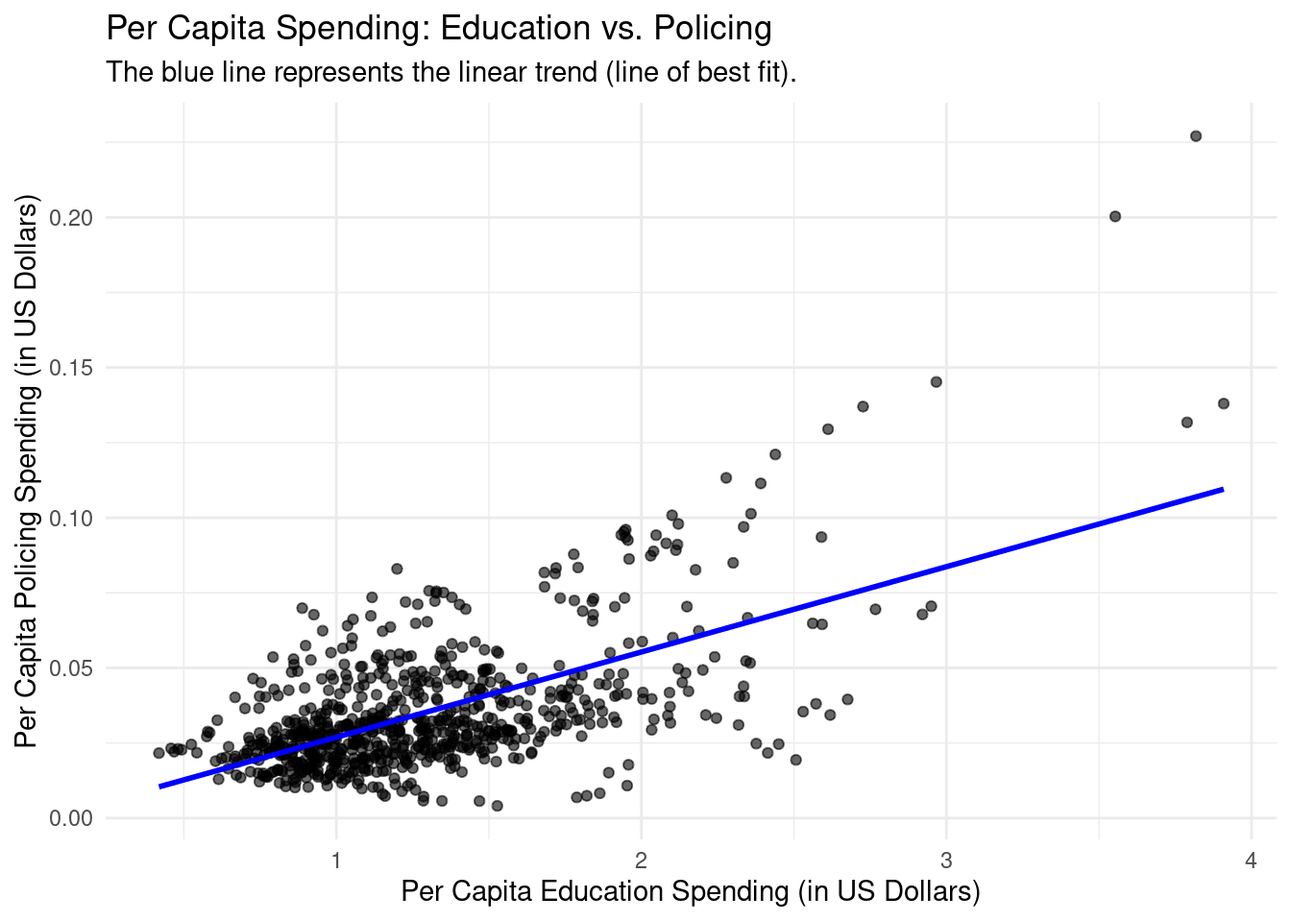
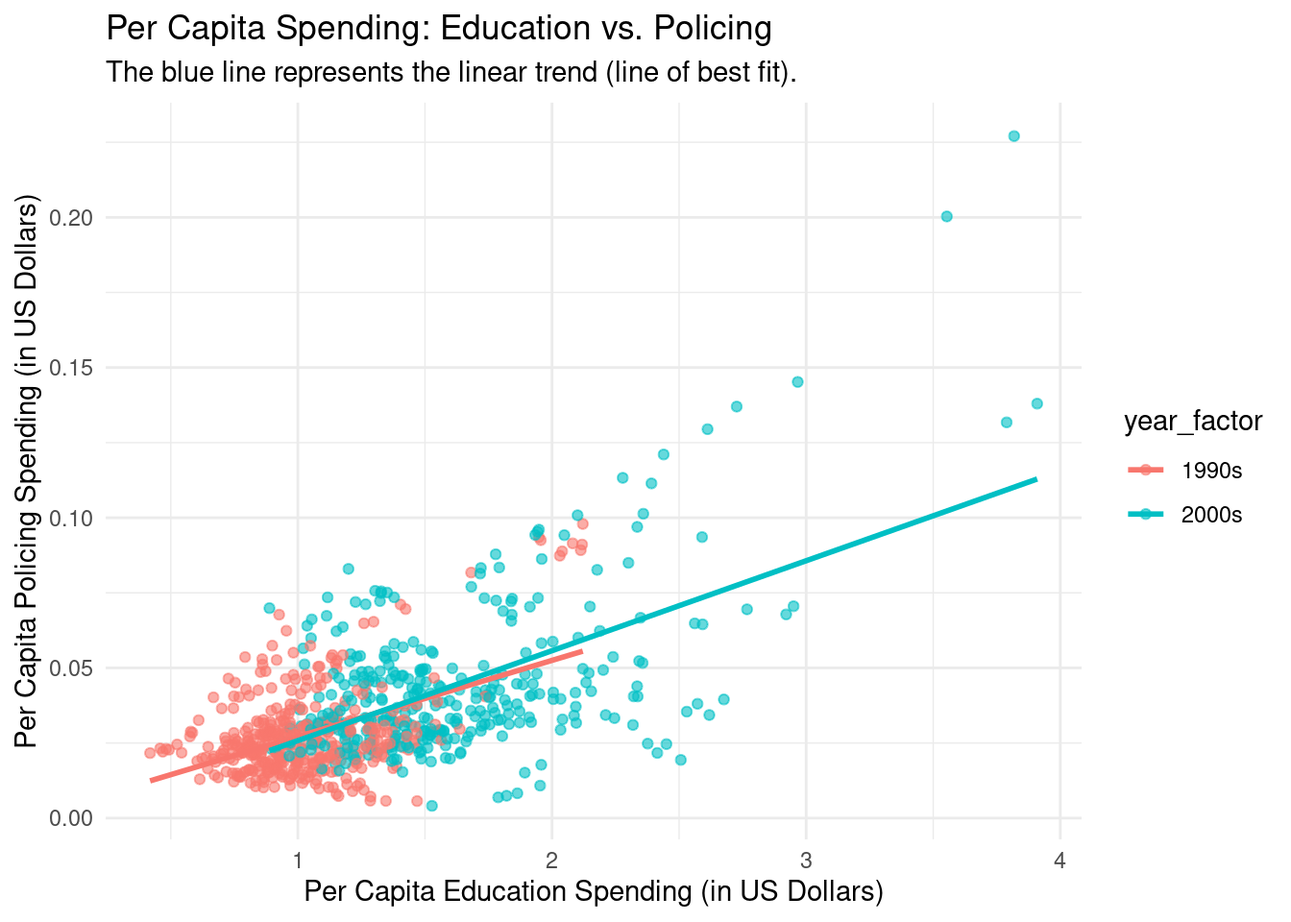
Aug 27 at Three thirty-one pm

diff --git a/docs/posts/my_first_post/index.html b/docs/posts/my_first_post/index.html
@@ -22,6 +22,41 @@ ul.task-list li input[type="checkbox"] {
   margin: 0 0.8em 0.2em -1em; /* quarto-specific, see https://github.com/quarto-dev/quarto-cli/issues/4556 */ 
   vertical-align: middle;
 }
+/* CSS for syntax highlighting */
+html { -webkit-text-size-adjust: 100%; }
+pre > code.sourceCode { white-space: pre; position: relative; }
+pre > code.sourceCode > span { display: inline-block; line-height: 1.25; }
+pre > code.sourceCode > span:empty { height: 1.2em; }
+.sourceCode { overflow: visible; }
+code.sourceCode > span { color: inherit; text-decoration: inherit; }
+div.sourceCode { margin: 1em 0; }
+pre.sourceCode { margin: 0; }
+@media screen {
+div.sourceCode { overflow: auto; }
+}
+@media print {
+pre > code.sourceCode { white-space: pre-wrap; }
+pre > code.sourceCode > span { text-indent: -5em; padding-left: 5em; }
+}
+pre.numberSource code
+  { counter-reset: source-line 0; }
+pre.numberSource code > span
+  { position: relative; left: -4em; counter-increment: source-line; }
+pre.numberSource code > span > a:first-child::before
+  { content: counter(source-line);
+    position: relative; left: -1em; text-align: right; vertical-align: baseline;
+    border: none; display: inline-block;
+    -webkit-touch-callout: none; -webkit-user-select: none;
+    -khtml-user-select: none; -moz-user-select: none;
+    -ms-user-select: none; user-select: none;
+    padding: 0 4px; width: 4em;
+  }
+pre.numberSource { margin-left: 3em;  padding-left: 4px; }
+div.sourceCode
+  {   }
+@media screen {
+pre > code.sourceCode > span > a:first-child::before { text-decoration: underline; }
+}
 </style>
 
 
@@ -156,9 +191,9 @@ ul.task-list li input[type="checkbox"] {
 
 
 
-<section id="financial-investment-per-capita-by-state" class="level1">
-<h1>Financial Investment Per Capita by State</h1>
-<p>I decided to take a look at financial data across several years throughout the US, there are conclusions that I draw based on some metrics that I would like to focus on. To do so, I began to look at some important questions to figure out how spending per capita is reflected in some of the other variables.<br>
+<section id="financial-investment-by-state" class="level1">
+<h1>Financial Investment by State</h1>
+<p>I decided to take a look at financial data across several years throughout the US, there are conclusions that I draw based on some metrics that I would like to focus on. To do so, I began to look at some important questions to figure out how spending per capita is reflected in some of the other variables. I also took a look at how trends in spending across some states have changed over the years and highlighted notable information or trends that take place.<br>
 <br>
 The questions are as follows:</p>
 <ul>
@@ -180,6 +215,71 @@ The questions are as follows:</p>
 <section id="education-and-police-spending" class="level2">
 <h2 class="anchored" data-anchor-id="education-and-police-spending">Education and Police Spending</h2>
 <div class="cell">
+<div class="sourceCode cell-code" id="cb1"><pre class="sourceCode r code-with-copy"><code class="sourceCode r"><span id="cb1-1"><a href="#cb1-1" aria-hidden="true" tabindex="-1"></a><span class="co"># Load the necessary libraries for data manipulation and visualization</span></span>
+<span id="cb1-2"><a href="#cb1-2" aria-hidden="true" tabindex="-1"></a><span class="co"># Suppress the package startup messages from tidyverse</span></span>
+<span id="cb1-3"><a href="#cb1-3" aria-hidden="true" tabindex="-1"></a><span class="fu">suppressPackageStartupMessages</span>(<span class="fu">library</span>(tidyverse))</span>
+<span id="cb1-4"><a href="#cb1-4" aria-hidden="true" tabindex="-1"></a></span>
+<span id="cb1-5"><a href="#cb1-5" aria-hidden="true" tabindex="-1"></a><span class="co"># Define a function to calculate the equation for per capita spending</span></span>
+<span id="cb1-6"><a href="#cb1-6" aria-hidden="true" tabindex="-1"></a><span class="co"># This function takes the total spending and population as input</span></span>
+<span id="cb1-7"><a href="#cb1-7" aria-hidden="true" tabindex="-1"></a>per_capita_equation <span class="ot">&lt;-</span> <span class="cf">function</span>(total_spending, population) {</span>
+<span id="cb1-8"><a href="#cb1-8" aria-hidden="true" tabindex="-1"></a>  <span class="fu">return</span>(total_spending <span class="sc">/</span> population)</span>
+<span id="cb1-9"><a href="#cb1-9" aria-hidden="true" tabindex="-1"></a>}</span>
+<span id="cb1-10"><a href="#cb1-10" aria-hidden="true" tabindex="-1"></a></span>
+<span id="cb1-11"><a href="#cb1-11" aria-hidden="true" tabindex="-1"></a><span class="co"># Load the finance and population datasets</span></span>
+<span id="cb1-12"><a href="#cb1-12" aria-hidden="true" tabindex="-1"></a><span class="co"># Make sure these files are in the same directory as your R script</span></span>
+<span id="cb1-13"><a href="#cb1-13" aria-hidden="true" tabindex="-1"></a>finance_df <span class="ot">&lt;-</span> <span class="fu">read.csv</span>(<span class="st">"../../finance.csv"</span>)</span>
+<span id="cb1-14"><a href="#cb1-14" aria-hidden="true" tabindex="-1"></a>population_df <span class="ot">&lt;-</span> <span class="fu">read.csv</span>(<span class="st">"../../state-population.csv"</span>)</span>
+<span id="cb1-15"><a href="#cb1-15" aria-hidden="true" tabindex="-1"></a></span>
+<span id="cb1-16"><a href="#cb1-16" aria-hidden="true" tabindex="-1"></a><span class="co"># Filter the population data to get only the total population for each state and year</span></span>
+<span id="cb1-17"><a href="#cb1-17" aria-hidden="true" tabindex="-1"></a>total_population_df <span class="ot">&lt;-</span> population_df <span class="sc">%&gt;%</span></span>
+<span id="cb1-18"><a href="#cb1-18" aria-hidden="true" tabindex="-1"></a>  <span class="fu">filter</span>(ages <span class="sc">==</span> <span class="st">"total"</span>) <span class="sc">%&gt;%</span></span>
+<span id="cb1-19"><a href="#cb1-19" aria-hidden="true" tabindex="-1"></a>  <span class="fu">select</span>(<span class="at">state_abbr =</span> <span class="st">`</span><span class="at">state.region</span><span class="st">`</span>, year, population)</span>
+<span id="cb1-20"><a href="#cb1-20" aria-hidden="true" tabindex="-1"></a></span>
+<span id="cb1-21"><a href="#cb1-21" aria-hidden="true" tabindex="-1"></a><span class="co"># Create a mapping from full state names to abbreviations to fix the join issue</span></span>
+<span id="cb1-22"><a href="#cb1-22" aria-hidden="true" tabindex="-1"></a>state_name_map <span class="ot">&lt;-</span> <span class="fu">data.frame</span>(</span>
+<span id="cb1-23"><a href="#cb1-23" aria-hidden="true" tabindex="-1"></a>  <span class="at">State =</span> <span class="fu">c</span>(<span class="st">"ALABAMA"</span>, <span class="st">"ALASKA"</span>, <span class="st">"ARIZONA"</span>, <span class="st">"ARKANSAS"</span>, <span class="st">"CALIFORNIA"</span>, <span class="st">"COLORADO"</span>, <span class="st">"CONNECTICUT"</span>, <span class="st">"DELAWARE"</span>, <span class="st">"FLORIDA"</span>, <span class="st">"GEORGIA"</span>, <span class="st">"HAWAII"</span>, <span class="st">"IDAHO"</span>, <span class="st">"ILLINOIS"</span>, <span class="st">"INDIANA"</span>, <span class="st">"IOWA"</span>, <span class="st">"KANSAS"</span>, <span class="st">"KENTUCKY"</span>, <span class="st">"LOUISIANA"</span>, <span class="st">"MAINE"</span>, <span class="st">"MARYLAND"</span>, <span class="st">"MASSACHUSETTS"</span>, <span class="st">"MICHIGAN"</span>, <span class="st">"MINNESOTA"</span>, <span class="st">"MISSISSIPPI"</span>, <span class="st">"MISSOURI"</span>, <span class="st">"MONTANA"</span>, <span class="st">"NEBRASKA"</span>, <span class="st">"NEVADA"</span>, <span class="st">"NEW HAMPSHIRE"</span>, <span class="st">"NEW JERSEY"</span>, <span class="st">"NEW MEXICO"</span>, <span class="st">"NEW YORK"</span>, <span class="st">"NORTH CAROLINA"</span>, <span class="st">"NORTH DAKOTA"</span>, <span class="st">"OHIO"</span>, <span class="st">"OKLAHOMA"</span>, <span class="st">"OREGON"</span>, <span class="st">"PENNSYLVANIA"</span>, <span class="st">"RHODE ISLAND"</span>, <span class="st">"SOUTH CAROLINA"</span>, <span class="st">"SOUTH DAKOTA"</span>, <span class="st">"TENNESSEE"</span>, <span class="st">"TEXAS"</span>, <span class="st">"UTAH"</span>, <span class="st">"VERMONT"</span>, <span class="st">"VIRGINIA"</span>, <span class="st">"WASHINGTON"</span>, <span class="st">"WEST VIRGINIA"</span>, <span class="st">"WISCONSIN"</span>, <span class="st">"WYOMING"</span>),</span>
+<span id="cb1-24"><a href="#cb1-24" aria-hidden="true" tabindex="-1"></a>  <span class="at">state_abbr =</span> <span class="fu">c</span>(<span class="st">"AL"</span>, <span class="st">"AK"</span>, <span class="st">"AZ"</span>, <span class="st">"AR"</span>, <span class="st">"CA"</span>, <span class="st">"CO"</span>, <span class="st">"CT"</span>, <span class="st">"DE"</span>, <span class="st">"FL"</span>, <span class="st">"GA"</span>, <span class="st">"HI"</span>, <span class="st">"ID"</span>, <span class="st">"IL"</span>, <span class="st">"IN"</span>, <span class="st">"IA"</span>, <span class="st">"KS"</span>, <span class="st">"KY"</span>, <span class="st">"LA"</span>, <span class="st">"ME"</span>, <span class="st">"MD"</span>, <span class="st">"MA"</span>, <span class="st">"MI"</span>, <span class="st">"MN"</span>, <span class="st">"MS"</span>, <span class="st">"MO"</span>, <span class="st">"MT"</span>, <span class="st">"NE"</span>, <span class="st">"NV"</span>, <span class="st">"NH"</span>, <span class="st">"NJ"</span>, <span class="st">"NM"</span>, <span class="st">"NY"</span>, <span class="st">"NC"</span>, <span class="st">"ND"</span>, <span class="st">"OH"</span>, <span class="st">"OK"</span>, <span class="st">"OR"</span>, <span class="st">"PA"</span>, <span class="st">"RI"</span>, <span class="st">"SC"</span>, <span class="st">"SD"</span>, <span class="st">"TN"</span>, <span class="st">"TX"</span>, <span class="st">"UT"</span>, <span class="st">"VT"</span>, <span class="st">"VA"</span>, <span class="st">"WA"</span>, <span class="st">"WV"</span>, <span class="st">"WI"</span>, <span class="st">"WY"</span>)</span>
+<span id="cb1-25"><a href="#cb1-25" aria-hidden="true" tabindex="-1"></a>)</span>
+<span id="cb1-26"><a href="#cb1-26" aria-hidden="true" tabindex="-1"></a></span>
+<span id="cb1-27"><a href="#cb1-27" aria-hidden="true" tabindex="-1"></a><span class="co"># Clean up the finance column names and join with the state abbreviation map</span></span>
+<span id="cb1-28"><a href="#cb1-28" aria-hidden="true" tabindex="-1"></a>finance_with_abbr <span class="ot">&lt;-</span> finance_df <span class="sc">%&gt;%</span></span>
+<span id="cb1-29"><a href="#cb1-29" aria-hidden="true" tabindex="-1"></a>  <span class="fu">rename</span>(<span class="at">state =</span> State, <span class="at">year =</span> Year) <span class="sc">%&gt;%</span></span>
+<span id="cb1-30"><a href="#cb1-30" aria-hidden="true" tabindex="-1"></a>  <span class="fu">left_join</span>(state_name_map, <span class="at">by =</span> <span class="fu">c</span>(<span class="st">"state"</span> <span class="ot">=</span> <span class="st">"State"</span>))</span>
+<span id="cb1-31"><a href="#cb1-31" aria-hidden="true" tabindex="-1"></a></span>
+<span id="cb1-32"><a href="#cb1-32" aria-hidden="true" tabindex="-1"></a><span class="co"># Join the combined finance data with the population data using the new abbreviation column</span></span>
+<span id="cb1-33"><a href="#cb1-33" aria-hidden="true" tabindex="-1"></a>combined_df <span class="ot">&lt;-</span> finance_with_abbr <span class="sc">%&gt;%</span></span>
+<span id="cb1-34"><a href="#cb1-34" aria-hidden="true" tabindex="-1"></a>  <span class="fu">left_join</span>(total_population_df, <span class="at">by =</span> <span class="fu">c</span>(<span class="st">"state_abbr"</span> <span class="ot">=</span> <span class="st">"state_abbr"</span>, <span class="st">"year"</span>)) <span class="sc">%&gt;%</span></span>
+<span id="cb1-35"><a href="#cb1-35" aria-hidden="true" tabindex="-1"></a>  <span class="fu">drop_na</span>(population)</span>
+<span id="cb1-36"><a href="#cb1-36" aria-hidden="true" tabindex="-1"></a></span>
+<span id="cb1-37"><a href="#cb1-37" aria-hidden="true" tabindex="-1"></a><span class="co"># Calculate the per capita spending for education and policing</span></span>
+<span id="cb1-38"><a href="#cb1-38" aria-hidden="true" tabindex="-1"></a>combined_df <span class="ot">&lt;-</span> combined_df <span class="sc">%&gt;%</span></span>
+<span id="cb1-39"><a href="#cb1-39" aria-hidden="true" tabindex="-1"></a>  <span class="fu">mutate</span>(</span>
+<span id="cb1-40"><a href="#cb1-40" aria-hidden="true" tabindex="-1"></a>    <span class="at">per_capita_education_spending =</span> <span class="fu">per_capita_equation</span>(<span class="st">`</span><span class="at">Details.Education.Education.Total</span><span class="st">`</span>, population),</span>
+<span id="cb1-41"><a href="#cb1-41" aria-hidden="true" tabindex="-1"></a>    <span class="at">per_capita_policing_spending =</span> <span class="fu">per_capita_equation</span>(<span class="st">`</span><span class="at">Details.Police.protection</span><span class="st">`</span>, population)</span>
+<span id="cb1-42"><a href="#cb1-42" aria-hidden="true" tabindex="-1"></a>  )</span>
+<span id="cb1-43"><a href="#cb1-43" aria-hidden="true" tabindex="-1"></a></span>
+<span id="cb1-44"><a href="#cb1-44" aria-hidden="true" tabindex="-1"></a></span>
+<span id="cb1-45"><a href="#cb1-45" aria-hidden="true" tabindex="-1"></a>combined_df<span class="sc">$</span>year_factor <span class="ot">&lt;-</span> <span class="st">"1990s"</span></span>
+<span id="cb1-46"><a href="#cb1-46" aria-hidden="true" tabindex="-1"></a>combined_df[combined_df<span class="sc">$</span>year <span class="sc">&gt;</span> <span class="dv">1999</span>, ]<span class="sc">$</span>year_factor <span class="ot">&lt;-</span> <span class="st">"2000s"</span></span>
+<span id="cb1-47"><a href="#cb1-47" aria-hidden="true" tabindex="-1"></a></span>
+<span id="cb1-48"><a href="#cb1-48" aria-hidden="true" tabindex="-1"></a><span class="co"># Create a scatter plot to compare per capita spending on education and policing</span></span>
+<span id="cb1-49"><a href="#cb1-49" aria-hidden="true" tabindex="-1"></a><span class="co"># Use capture.output to suppress any messages or warnings</span></span>
+<span id="cb1-50"><a href="#cb1-50" aria-hidden="true" tabindex="-1"></a><span class="fu">capture.output</span>({</span>
+<span id="cb1-51"><a href="#cb1-51" aria-hidden="true" tabindex="-1"></a>  <span class="fu">suppressMessages</span>(</span>
+<span id="cb1-52"><a href="#cb1-52" aria-hidden="true" tabindex="-1"></a>    <span class="fu">suppressWarnings</span>(</span>
+<span id="cb1-53"><a href="#cb1-53" aria-hidden="true" tabindex="-1"></a>      <span class="fu">ggplot</span>(combined_df, <span class="fu">aes</span>(<span class="at">x =</span> per_capita_education_spending, <span class="at">y =</span> per_capita_policing_spending, <span class="at">color =</span> year_factor)) <span class="sc">+</span></span>
+<span id="cb1-54"><a href="#cb1-54" aria-hidden="true" tabindex="-1"></a>        <span class="fu">geom_point</span>(<span class="at">alpha =</span> <span class="fl">0.6</span>) <span class="sc">+</span></span>
+<span id="cb1-55"><a href="#cb1-55" aria-hidden="true" tabindex="-1"></a>        <span class="fu">geom_smooth</span>(<span class="at">method =</span> <span class="st">"lm"</span>, <span class="at">se =</span> <span class="cn">FALSE</span>) <span class="sc">+</span></span>
+<span id="cb1-56"><a href="#cb1-56" aria-hidden="true" tabindex="-1"></a>        <span class="fu">labs</span>(</span>
+<span id="cb1-57"><a href="#cb1-57" aria-hidden="true" tabindex="-1"></a>          <span class="at">title =</span> <span class="st">"Per Capita Spending: Education vs. Policing"</span>,</span>
+<span id="cb1-58"><a href="#cb1-58" aria-hidden="true" tabindex="-1"></a>          <span class="at">subtitle =</span> <span class="st">"The blue line represents the linear trend (line of best fit)."</span>,</span>
+<span id="cb1-59"><a href="#cb1-59" aria-hidden="true" tabindex="-1"></a>          <span class="at">x =</span> <span class="st">"Per Capita Education Spending (in US Dollars)"</span>,</span>
+<span id="cb1-60"><a href="#cb1-60" aria-hidden="true" tabindex="-1"></a>          <span class="at">y =</span> <span class="st">"Per Capita Policing Spending (in US Dollars)"</span></span>
+<span id="cb1-61"><a href="#cb1-61" aria-hidden="true" tabindex="-1"></a>        ) <span class="sc">+</span></span>
+<span id="cb1-62"><a href="#cb1-62" aria-hidden="true" tabindex="-1"></a>        <span class="fu">theme_minimal</span>()</span>
+<span id="cb1-63"><a href="#cb1-63" aria-hidden="true" tabindex="-1"></a>    )</span>
+<span id="cb1-64"><a href="#cb1-64" aria-hidden="true" tabindex="-1"></a>  )</span>
+<span id="cb1-65"><a href="#cb1-65" aria-hidden="true" tabindex="-1"></a>})</span></code><button title="Copy to Clipboard" class="code-copy-button"><i class="bi"></i></button></pre></div>
 <div class="cell-output cell-output-stderr">
 <pre><code>`geom_smooth()` using formula = 'y ~ x'</code></pre>
 </div>
@@ -200,6 +300,79 @@ The questions are as follows:</p>
 <section id="financial-expenditure-trends" class="level1">
 <h1>Financial Expenditure Trends</h1>
 <div class="cell">
+<div class="sourceCode cell-code" id="cb4"><pre class="sourceCode r code-with-copy"><code class="sourceCode r"><span id="cb4-1"><a href="#cb4-1" aria-hidden="true" tabindex="-1"></a><span class="co"># Load the necessary libraries for data manipulation and visualization.</span></span>
+<span id="cb4-2"><a href="#cb4-2" aria-hidden="true" tabindex="-1"></a><span class="co"># The suppressPackageStartupMessages function ensures no package-related messages are shown.</span></span>
+<span id="cb4-3"><a href="#cb4-3" aria-hidden="true" tabindex="-1"></a><span class="fu">suppressPackageStartupMessages</span>(<span class="fu">library</span>(tidyverse))</span>
+<span id="cb4-4"><a href="#cb4-4" aria-hidden="true" tabindex="-1"></a><span class="fu">suppressPackageStartupMessages</span>(<span class="fu">library</span>(scales)) <span class="co"># Load the scales package for advanced label formatting</span></span>
+<span id="cb4-5"><a href="#cb4-5" aria-hidden="true" tabindex="-1"></a></span>
+<span id="cb4-6"><a href="#cb4-6" aria-hidden="true" tabindex="-1"></a><span class="co"># Load the finance dataset from the provided CSV file.</span></span>
+<span id="cb4-7"><a href="#cb4-7" aria-hidden="true" tabindex="-1"></a>finance_df <span class="ot">&lt;-</span> <span class="fu">read.csv</span>(<span class="st">"../../finance.csv"</span>)</span>
+<span id="cb4-8"><a href="#cb4-8" aria-hidden="true" tabindex="-1"></a></span>
+<span id="cb4-9"><a href="#cb4-9" aria-hidden="true" tabindex="-1"></a><span class="co"># Clean the column names for easier use in R.</span></span>
+<span id="cb4-10"><a href="#cb4-10" aria-hidden="true" tabindex="-1"></a><span class="co"># R automatically replaces spaces with periods in column headers, so we need to account for that.</span></span>
+<span id="cb4-11"><a href="#cb4-11" aria-hidden="true" tabindex="-1"></a>finance_df_cleaned <span class="ot">&lt;-</span> finance_df <span class="sc">%&gt;%</span></span>
+<span id="cb4-12"><a href="#cb4-12" aria-hidden="true" tabindex="-1"></a>  <span class="fu">rename</span>(</span>
+<span id="cb4-13"><a href="#cb4-13" aria-hidden="true" tabindex="-1"></a>    <span class="at">state =</span> State,</span>
+<span id="cb4-14"><a href="#cb4-14" aria-hidden="true" tabindex="-1"></a>    <span class="at">year =</span> Year,</span>
+<span id="cb4-15"><a href="#cb4-15" aria-hidden="true" tabindex="-1"></a>    <span class="at">total_revenue =</span> Totals.Revenue,</span>
+<span id="cb4-16"><a href="#cb4-16" aria-hidden="true" tabindex="-1"></a>    <span class="at">total_expenditure =</span> Totals.Expenditure,</span>
+<span id="cb4-17"><a href="#cb4-17" aria-hidden="true" tabindex="-1"></a>    <span class="at">education_expenditure =</span> Details.Education.Education.Total,</span>
+<span id="cb4-18"><a href="#cb4-18" aria-hidden="true" tabindex="-1"></a>    <span class="at">health_expenditure =</span> Details.Health.Health.Total.Expenditure,</span>
+<span id="cb4-19"><a href="#cb4-19" aria-hidden="true" tabindex="-1"></a>    <span class="at">correction_expenditure =</span> Details.Correction.Correction.Total</span>
+<span id="cb4-20"><a href="#cb4-20" aria-hidden="true" tabindex="-1"></a>  )</span>
+<span id="cb4-21"><a href="#cb4-21" aria-hidden="true" tabindex="-1"></a></span>
+<span id="cb4-22"><a href="#cb4-22" aria-hidden="true" tabindex="-1"></a><span class="co"># Filter the data for a few example states to make the plot readable.</span></span>
+<span id="cb4-23"><a href="#cb4-23" aria-hidden="true" tabindex="-1"></a><span class="co"># This makes it easier to see individual trends without cluttering the graph.</span></span>
+<span id="cb4-24"><a href="#cb4-24" aria-hidden="true" tabindex="-1"></a>selected_states_df <span class="ot">&lt;-</span> finance_df_cleaned <span class="sc">%&gt;%</span></span>
+<span id="cb4-25"><a href="#cb4-25" aria-hidden="true" tabindex="-1"></a>  <span class="fu">filter</span>(state <span class="sc">%in%</span> <span class="fu">c</span>(<span class="st">"CALIFORNIA"</span>, <span class="st">"TEXAS"</span>, <span class="st">"NEW YORK"</span>)) <span class="sc">%&gt;%</span></span>
+<span id="cb4-26"><a href="#cb4-26" aria-hidden="true" tabindex="-1"></a>  <span class="fu">select</span>(</span>
+<span id="cb4-27"><a href="#cb4-27" aria-hidden="true" tabindex="-1"></a>    state,</span>
+<span id="cb4-28"><a href="#cb4-28" aria-hidden="true" tabindex="-1"></a>    year,</span>
+<span id="cb4-29"><a href="#cb4-29" aria-hidden="true" tabindex="-1"></a>    total_revenue,</span>
+<span id="cb4-30"><a href="#cb4-30" aria-hidden="true" tabindex="-1"></a>    education_expenditure,</span>
+<span id="cb4-31"><a href="#cb4-31" aria-hidden="true" tabindex="-1"></a>    health_expenditure,</span>
+<span id="cb4-32"><a href="#cb4-32" aria-hidden="true" tabindex="-1"></a>    correction_expenditure</span>
+<span id="cb4-33"><a href="#cb4-33" aria-hidden="true" tabindex="-1"></a>  )</span>
+<span id="cb4-34"><a href="#cb4-34" aria-hidden="true" tabindex="-1"></a></span>
+<span id="cb4-35"><a href="#cb4-35" aria-hidden="true" tabindex="-1"></a><span class="co"># Reshape the data from a "wide" format to a "long" format for plotting.</span></span>
+<span id="cb4-36"><a href="#cb4-36" aria-hidden="true" tabindex="-1"></a><span class="co"># This stacks the different expenditure types into a single column, which ggplot2</span></span>
+<span id="cb4-37"><a href="#cb4-37" aria-hidden="true" tabindex="-1"></a><span class="co"># can then use to create multiple lines on the same plot.</span></span>
+<span id="cb4-38"><a href="#cb4-38" aria-hidden="true" tabindex="-1"></a>long_format_df <span class="ot">&lt;-</span> selected_states_df <span class="sc">%&gt;%</span></span>
+<span id="cb4-39"><a href="#cb4-39" aria-hidden="true" tabindex="-1"></a>  <span class="fu">pivot_longer</span>(</span>
+<span id="cb4-40"><a href="#cb4-40" aria-hidden="true" tabindex="-1"></a>    <span class="at">cols =</span> <span class="fu">c</span>(total_revenue, education_expenditure, health_expenditure, correction_expenditure),</span>
+<span id="cb4-41"><a href="#cb4-41" aria-hidden="true" tabindex="-1"></a>    <span class="at">names_to =</span> <span class="st">"financial_category"</span>,</span>
+<span id="cb4-42"><a href="#cb4-42" aria-hidden="true" tabindex="-1"></a>    <span class="at">values_to =</span> <span class="st">"amount"</span></span>
+<span id="cb4-43"><a href="#cb4-43" aria-hidden="true" tabindex="-1"></a>  )</span>
+<span id="cb4-44"><a href="#cb4-44" aria-hidden="true" tabindex="-1"></a></span>
+<span id="cb4-45"><a href="#cb4-45" aria-hidden="true" tabindex="-1"></a><span class="co"># -------------------------------------------------------------------------</span></span>
+<span id="cb4-46"><a href="#cb4-46" aria-hidden="true" tabindex="-1"></a><span class="co"># First Graph: Total Revenue Trends</span></span>
+<span id="cb4-47"><a href="#cb4-47" aria-hidden="true" tabindex="-1"></a><span class="co"># This graph plots only the total revenue on a single, unified scale.</span></span>
+<span id="cb4-48"><a href="#cb4-48" aria-hidden="true" tabindex="-1"></a><span class="co"># The print() function is used to force this plot to be displayed in the output.</span></span>
+<span id="cb4-49"><a href="#cb4-49" aria-hidden="true" tabindex="-1"></a><span class="co"># -------------------------------------------------------------------------</span></span>
+<span id="cb4-50"><a href="#cb4-50" aria-hidden="true" tabindex="-1"></a><span class="fu">suppressMessages</span>(</span>
+<span id="cb4-51"><a href="#cb4-51" aria-hidden="true" tabindex="-1"></a>  <span class="fu">suppressWarnings</span>(</span>
+<span id="cb4-52"><a href="#cb4-52" aria-hidden="true" tabindex="-1"></a>    <span class="fu">print</span>(<span class="fu">ggplot</span>(</span>
+<span id="cb4-53"><a href="#cb4-53" aria-hidden="true" tabindex="-1"></a>      long_format_df <span class="sc">%&gt;%</span> <span class="fu">filter</span>(financial_category <span class="sc">==</span> <span class="st">"total_revenue"</span>),</span>
+<span id="cb4-54"><a href="#cb4-54" aria-hidden="true" tabindex="-1"></a>      <span class="fu">aes</span>(<span class="at">x =</span> year, <span class="at">y =</span> amount, <span class="at">color =</span> financial_category)</span>
+<span id="cb4-55"><a href="#cb4-55" aria-hidden="true" tabindex="-1"></a>    ) <span class="sc">+</span></span>
+<span id="cb4-56"><a href="#cb4-56" aria-hidden="true" tabindex="-1"></a>      <span class="fu">geom_line</span>(<span class="at">linewidth =</span> <span class="fl">1.2</span>) <span class="sc">+</span></span>
+<span id="cb4-57"><a href="#cb4-57" aria-hidden="true" tabindex="-1"></a>      <span class="fu">facet_wrap</span>(<span class="sc">~</span> state) <span class="sc">+</span></span>
+<span id="cb4-58"><a href="#cb4-58" aria-hidden="true" tabindex="-1"></a>      <span class="fu">scale_color_manual</span>(</span>
+<span id="cb4-59"><a href="#cb4-59" aria-hidden="true" tabindex="-1"></a>        <span class="at">values =</span> <span class="fu">c</span>(<span class="st">"total_revenue"</span> <span class="ot">=</span> <span class="st">"darkgreen"</span>),</span>
+<span id="cb4-60"><a href="#cb4-60" aria-hidden="true" tabindex="-1"></a>        <span class="at">labels =</span> <span class="fu">c</span>(<span class="st">"Total Revenue"</span>)</span>
+<span id="cb4-61"><a href="#cb4-61" aria-hidden="true" tabindex="-1"></a>      ) <span class="sc">+</span></span>
+<span id="cb4-62"><a href="#cb4-62" aria-hidden="true" tabindex="-1"></a>      <span class="fu">scale_y_continuous</span>(<span class="at">labels =</span> scales<span class="sc">::</span><span class="fu">label_dollar</span>(<span class="at">scale =</span> <span class="fl">1e-9</span>, <span class="at">prefix =</span> <span class="st">"$"</span>, <span class="at">suffix =</span> <span class="st">"B"</span>)) <span class="sc">+</span></span>
+<span id="cb4-63"><a href="#cb4-63" aria-hidden="true" tabindex="-1"></a>      <span class="fu">labs</span>(</span>
+<span id="cb4-64"><a href="#cb4-64" aria-hidden="true" tabindex="-1"></a>        <span class="at">title =</span> <span class="st">"State Financial Trends: Total Revenue"</span>,</span>
+<span id="cb4-65"><a href="#cb4-65" aria-hidden="true" tabindex="-1"></a>        <span class="at">subtitle =</span> <span class="st">"Trends in California, Texas, and New York from 1992 to 2016"</span>,</span>
+<span id="cb4-66"><a href="#cb4-66" aria-hidden="true" tabindex="-1"></a>        <span class="at">x =</span> <span class="st">"Year"</span>,</span>
+<span id="cb4-67"><a href="#cb4-67" aria-hidden="true" tabindex="-1"></a>        <span class="at">y =</span> <span class="st">"Amount (in Billions of US Dollars)"</span>,</span>
+<span id="cb4-68"><a href="#cb4-68" aria-hidden="true" tabindex="-1"></a>        <span class="at">color =</span> <span class="st">"Financial Category"</span></span>
+<span id="cb4-69"><a href="#cb4-69" aria-hidden="true" tabindex="-1"></a>      ) <span class="sc">+</span></span>
+<span id="cb4-70"><a href="#cb4-70" aria-hidden="true" tabindex="-1"></a>      <span class="fu">theme_minimal</span>(<span class="at">base_size =</span> <span class="dv">14</span>) <span class="sc">+</span></span>
+<span id="cb4-71"><a href="#cb4-71" aria-hidden="true" tabindex="-1"></a>      <span class="fu">theme</span>(<span class="at">legend.position =</span> <span class="st">"bottom"</span>)</span>
+<span id="cb4-72"><a href="#cb4-72" aria-hidden="true" tabindex="-1"></a>  ))</span>
+<span id="cb4-73"><a href="#cb4-73" aria-hidden="true" tabindex="-1"></a>)</span></code><button title="Copy to Clipboard" class="code-copy-button"><i class="bi"></i></button></pre></div>
 <div class="cell-output-display">
 <div>
 <figure class="figure">
@@ -207,6 +380,37 @@ The questions are as follows:</p>
 </figure>
 </div>
 </div>
+<div class="sourceCode cell-code" id="cb5"><pre class="sourceCode r code-with-copy"><code class="sourceCode r"><span id="cb5-1"><a href="#cb5-1" aria-hidden="true" tabindex="-1"></a><span class="co"># -------------------------------------------------------------------------</span></span>
+<span id="cb5-2"><a href="#cb5-2" aria-hidden="true" tabindex="-1"></a><span class="co"># Second Graph: Key Expenditures Trends</span></span>
+<span id="cb5-3"><a href="#cb5-3" aria-hidden="true" tabindex="-1"></a><span class="co"># This graph plots the three expenditure categories with a free y-axis scale.</span></span>
+<span id="cb5-4"><a href="#cb5-4" aria-hidden="true" tabindex="-1"></a><span class="co"># The print() function is also used here to ensure this plot is displayed.</span></span>
+<span id="cb5-5"><a href="#cb5-5" aria-hidden="true" tabindex="-1"></a><span class="co"># -------------------------------------------------------------------------</span></span>
+<span id="cb5-6"><a href="#cb5-6" aria-hidden="true" tabindex="-1"></a><span class="fu">suppressMessages</span>(</span>
+<span id="cb5-7"><a href="#cb5-7" aria-hidden="true" tabindex="-1"></a>  <span class="fu">suppressWarnings</span>(</span>
+<span id="cb5-8"><a href="#cb5-8" aria-hidden="true" tabindex="-1"></a>    <span class="fu">print</span>(<span class="fu">ggplot</span>(</span>
+<span id="cb5-9"><a href="#cb5-9" aria-hidden="true" tabindex="-1"></a>      long_format_df <span class="sc">%&gt;%</span> <span class="fu">filter</span>(financial_category <span class="sc">!=</span> <span class="st">"total_revenue"</span>),</span>
+<span id="cb5-10"><a href="#cb5-10" aria-hidden="true" tabindex="-1"></a>      <span class="fu">aes</span>(<span class="at">x =</span> year, <span class="at">y =</span> amount, <span class="at">color =</span> financial_category)</span>
+<span id="cb5-11"><a href="#cb5-11" aria-hidden="true" tabindex="-1"></a>    ) <span class="sc">+</span></span>
+<span id="cb5-12"><a href="#cb5-12" aria-hidden="true" tabindex="-1"></a>      <span class="fu">geom_line</span>(<span class="at">linewidth =</span> <span class="fl">1.2</span>) <span class="sc">+</span></span>
+<span id="cb5-13"><a href="#cb5-13" aria-hidden="true" tabindex="-1"></a>      <span class="fu">facet_wrap</span>(<span class="sc">~</span> state, <span class="at">scales =</span> <span class="st">"free_y"</span>) <span class="sc">+</span></span>
+<span id="cb5-14"><a href="#cb5-14" aria-hidden="true" tabindex="-1"></a>      <span class="fu">scale_color_manual</span>(</span>
+<span id="cb5-15"><a href="#cb5-15" aria-hidden="true" tabindex="-1"></a>        <span class="at">values =</span> <span class="fu">c</span>(<span class="st">"education_expenditure"</span> <span class="ot">=</span> <span class="st">"blue"</span>,</span>
+<span id="cb5-16"><a href="#cb5-16" aria-hidden="true" tabindex="-1"></a>                   <span class="st">"health_expenditure"</span> <span class="ot">=</span> <span class="st">"red"</span>,</span>
+<span id="cb5-17"><a href="#cb5-17" aria-hidden="true" tabindex="-1"></a>                   <span class="st">"correction_expenditure"</span> <span class="ot">=</span> <span class="st">"orange"</span>),</span>
+<span id="cb5-18"><a href="#cb5-18" aria-hidden="true" tabindex="-1"></a>        <span class="at">labels =</span> <span class="fu">c</span>(<span class="st">"Education"</span>, <span class="st">"Health"</span>, <span class="st">"Correction"</span>)</span>
+<span id="cb5-19"><a href="#cb5-19" aria-hidden="true" tabindex="-1"></a>      ) <span class="sc">+</span></span>
+<span id="cb5-20"><a href="#cb5-20" aria-hidden="true" tabindex="-1"></a>      <span class="fu">scale_y_continuous</span>(<span class="at">labels =</span> scales<span class="sc">::</span><span class="fu">label_dollar</span>(<span class="at">scale =</span> <span class="fl">1e-9</span>, <span class="at">prefix =</span> <span class="st">"$"</span>, <span class="at">suffix =</span> <span class="st">"B"</span>)) <span class="sc">+</span></span>
+<span id="cb5-21"><a href="#cb5-21" aria-hidden="true" tabindex="-1"></a>      <span class="fu">labs</span>(</span>
+<span id="cb5-22"><a href="#cb5-22" aria-hidden="true" tabindex="-1"></a>        <span class="at">title =</span> <span class="st">"State Financial Trends: Key Expenditures"</span>,</span>
+<span id="cb5-23"><a href="#cb5-23" aria-hidden="true" tabindex="-1"></a>        <span class="at">subtitle =</span> <span class="st">"Trends in California, Texas, and New York from 1992 to 2016"</span>,</span>
+<span id="cb5-24"><a href="#cb5-24" aria-hidden="true" tabindex="-1"></a>        <span class="at">x =</span> <span class="st">"Year"</span>,</span>
+<span id="cb5-25"><a href="#cb5-25" aria-hidden="true" tabindex="-1"></a>        <span class="at">y =</span> <span class="st">"Amount (in Billions of US Dollars)"</span>,</span>
+<span id="cb5-26"><a href="#cb5-26" aria-hidden="true" tabindex="-1"></a>        <span class="at">color =</span> <span class="st">"Financial Category"</span></span>
+<span id="cb5-27"><a href="#cb5-27" aria-hidden="true" tabindex="-1"></a>      ) <span class="sc">+</span></span>
+<span id="cb5-28"><a href="#cb5-28" aria-hidden="true" tabindex="-1"></a>      <span class="fu">theme_minimal</span>(<span class="at">base_size =</span> <span class="dv">14</span>) <span class="sc">+</span></span>
+<span id="cb5-29"><a href="#cb5-29" aria-hidden="true" tabindex="-1"></a>      <span class="fu">theme</span>(<span class="at">legend.position =</span> <span class="st">"bottom"</span>)</span>
+<span id="cb5-30"><a href="#cb5-30" aria-hidden="true" tabindex="-1"></a>  ))</span>
+<span id="cb5-31"><a href="#cb5-31" aria-hidden="true" tabindex="-1"></a>)</span></code><button title="Copy to Clipboard" class="code-copy-button"><i class="bi"></i></button></pre></div>
 <div class="cell-output-display">
 <div>
 <figure class="figure">

diff --git a/docs/index.html b/docs/index.html
@@ -207,7 +207,7 @@ window.Quarto = {
 
 <div class="quarto-listing quarto-listing-container-default" id="listing-listing">
 <div class="list quarto-listing-default">
-<div class="quarto-post image-right" data-index="0" data-categories="ZmluYW5jZSUyQ2RhdGElMjBhbmFseXNpcw==" data-listing-date-sort="1754524800000" data-listing-file-modified-sort="1754592954323" data-listing-date-modified-sort="NaN" data-listing-reading-time-sort="9" data-listing-word-count-sort="1680">
+<div class="quarto-post image-right" data-index="0" data-categories="ZmluYW5jZSUyQ2RhdGElMjBhbmFseXNpcw==" data-listing-date-sort="1754524800000" data-listing-file-modified-sort="1754598226524" data-listing-date-modified-sort="NaN" data-listing-reading-time-sort="9" data-listing-word-count-sort="1713">
 <div class="thumbnail"><a href="./posts/my_first_post/index.html" class="no-external">
 
 <p class="card-img-top"><img src="posts/my_first_post/index_files/figure-html/unnamed-chunk-1-1.png"  class="thumbnail-image card-img"/></p>
